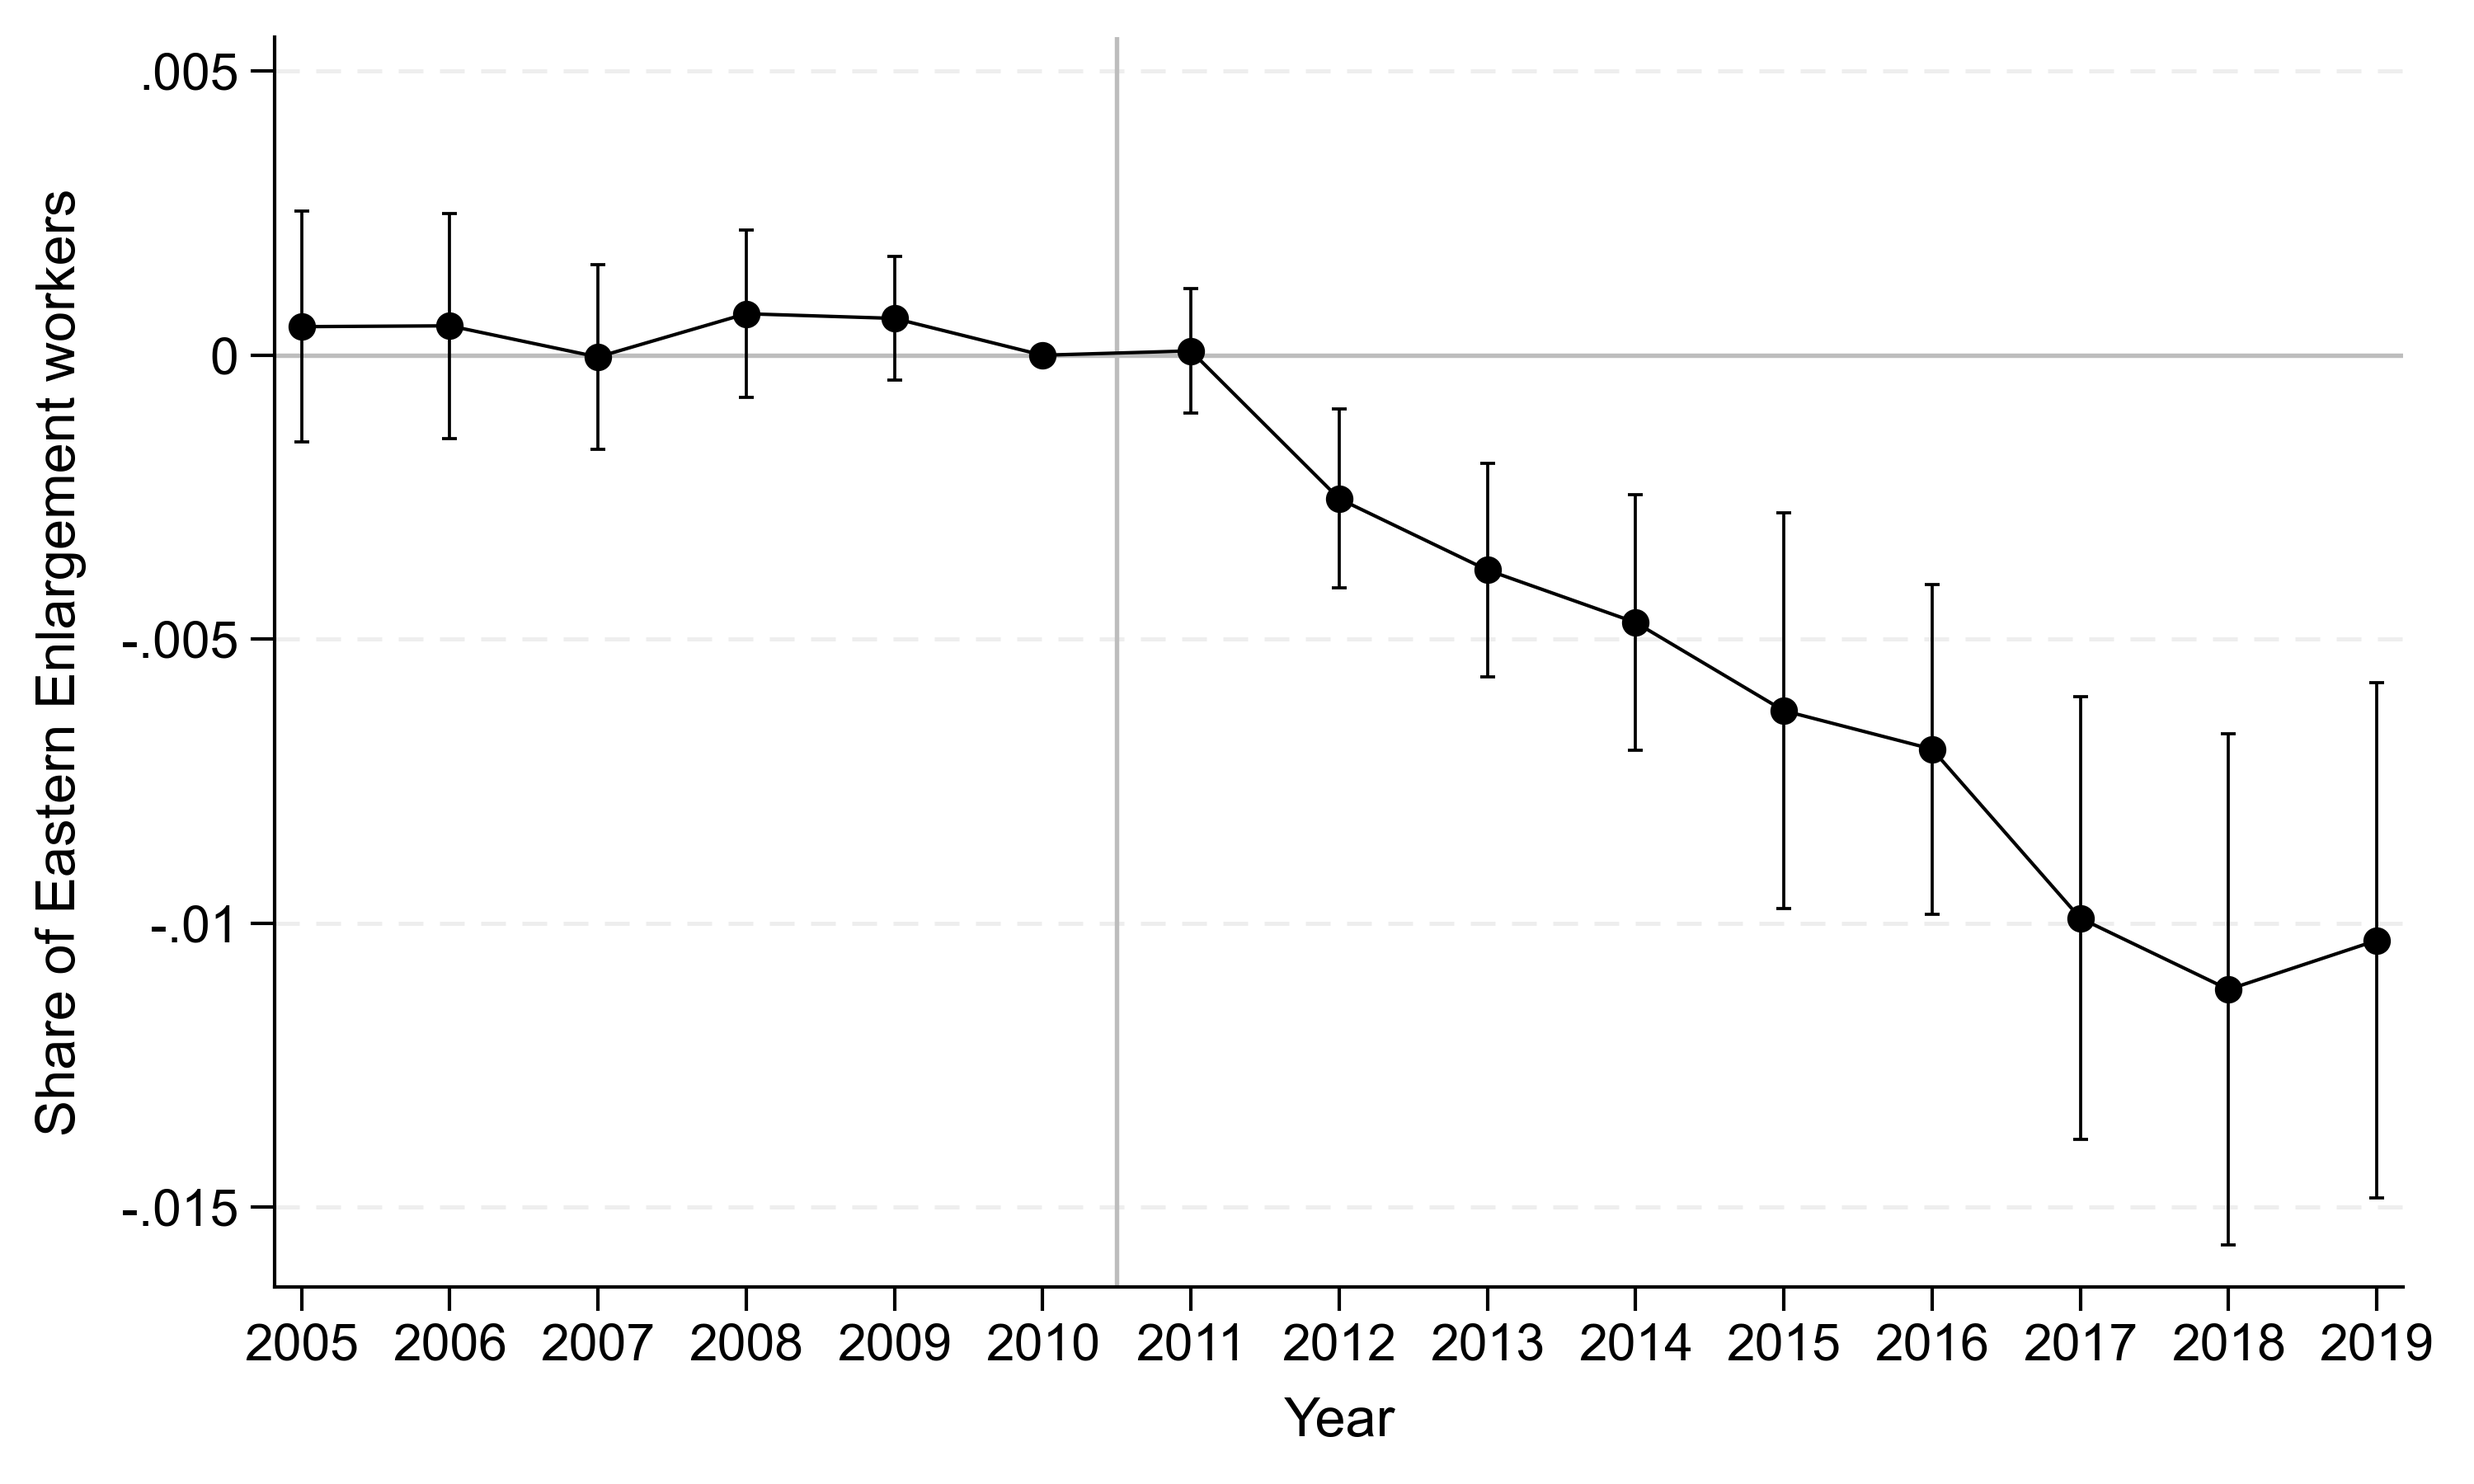
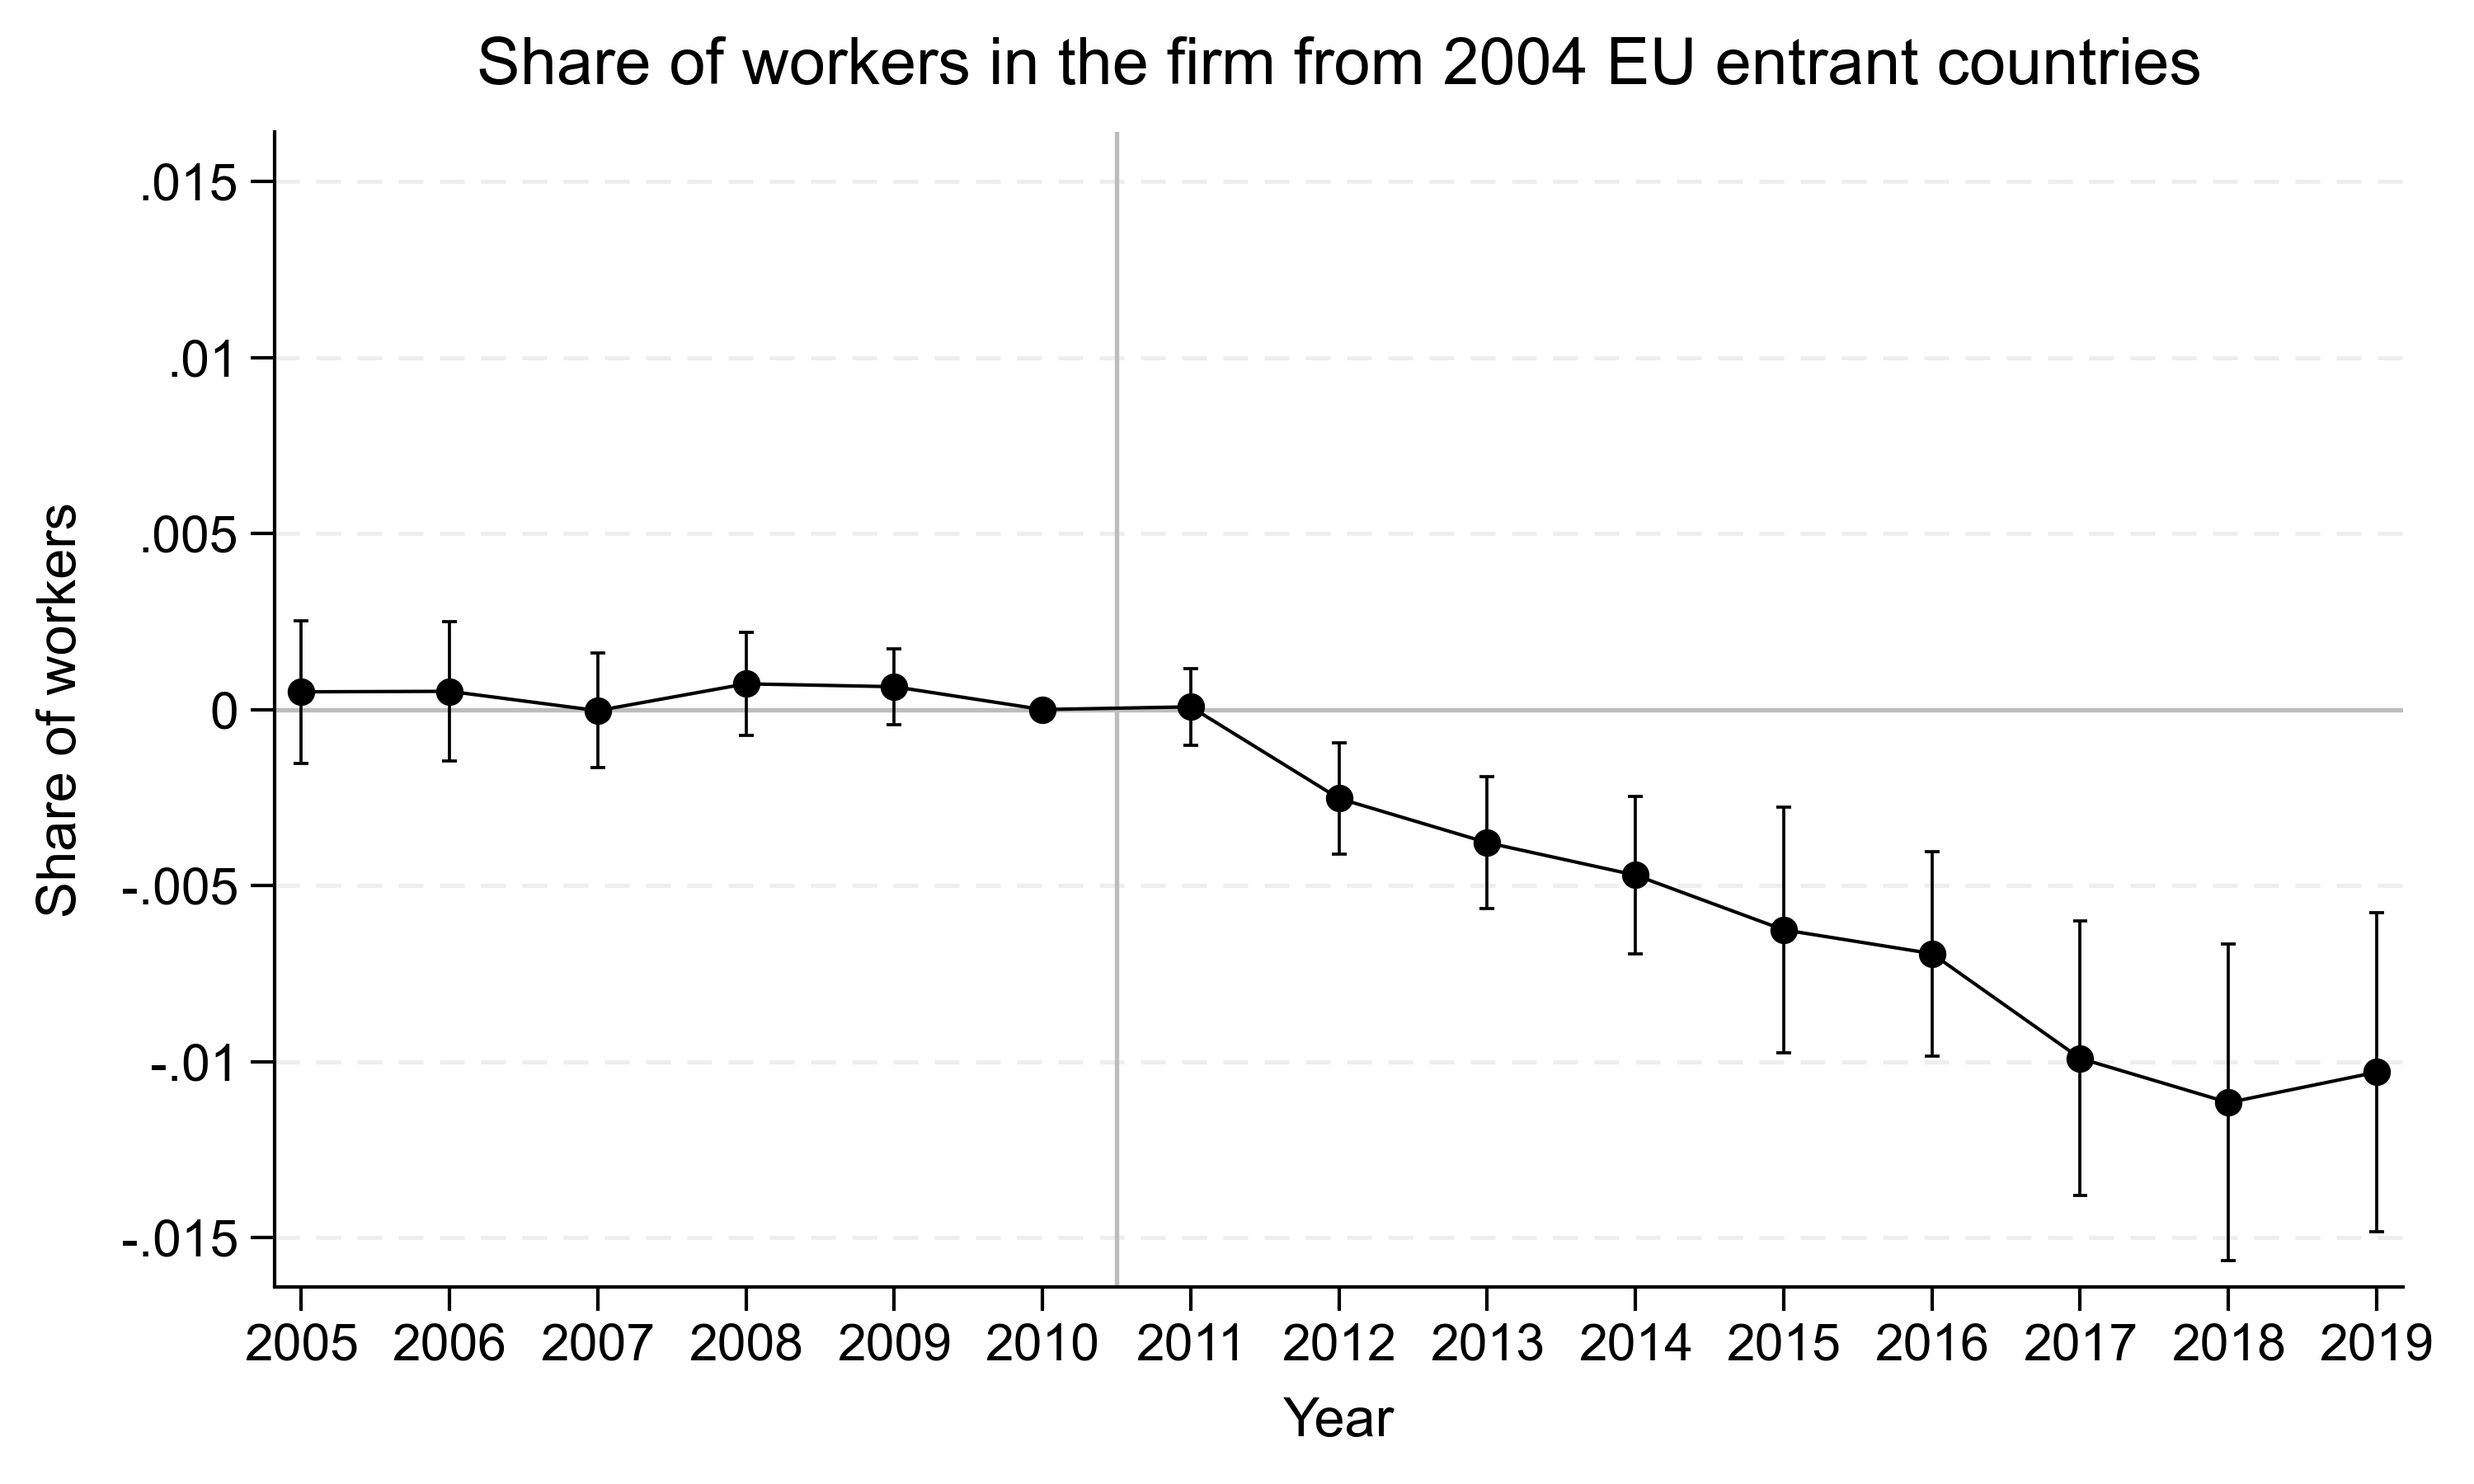
changes to abstract and caption

diff --git a/research.html b/research.html
@@ -34,10 +34,10 @@
                 <p class="paper-authors">with <a href="https://www.alexander-busch.eu/">Alexander Busch</a> and Sebastian Puerta</p>
                 <details class="paper-details">
                     <summary>Abstract and main result</summary>
-                    <p class="paper-abstract">We document the expanding geographic scope of labor unions in the US and show how the resulting organizational networks propagate shocks across distant labor markets. The number of states the average union local (union branch) operated in doubled from 1.5 in 2001 to 3 in 2011. As a consequence, shocks to unionized workers in one state are likely to have spillovers if unions respond by reallocating resources across states. We show this mechanism at work in the context of state-level Right-to-Work (RTW) laws, which make it optional to pay union dues. A model of a multistate union predicts spillovers with a sign that depends on the relative strength of forces similar to substitution and scale effects. We test for spillovers using the adoption of five RTW laws between 2012 and 2017. RTW laws have negative direct effects in adopting states and positive spillovers in non-adopting states; the average union represents 1.2 fewer bargaining units in adopting states and makes up for 35 percent of this loss in worker-level coverage by substituting towards non-adopting states. Notably, more than half of the spillover occurs in non-bordering states. We find no effect on the price or quality of union services. New organizing explains 34 percent of the spillover; the rest is explained by successful contract renegotiation for existing members. Despite the substitution, unions see a persistent decline in membership, revenues, and assets.</p>
+                    <p class="paper-abstract">We document the expanding geographic scope of labor unions in the US and show how the resulting organizational networks propagate shocks across distant labor markets. The number of states the average union local (union branch) operated in doubled from 1.5 in 2001 to 3 in 2011. As a consequence, shocks to unionized workers in one state are likely to have spillovers if unions respond by reallocating resources across states. We show this mechanism at work in the context of state-level Right-to-Work (RTW) laws, which make it optional to pay union dues. A model of a multistate union predicts spillovers with a sign that depends on the relative strength of substitution and scale effects. We test for spillovers using the adoption of five RTW laws between 2012 and 2017. RTW laws have negative direct effects in adopting states and positive spillovers in non-adopting states; the average union represents 1.2 fewer bargaining units in adopting states and makes up for 35 percent of this loss in worker-level coverage by substituting towards non-adopting states. Notably, more than half of the spillover occurs in non-bordering states. We find no effect on the price or quality of union services. New organizing explains 34 percent of the spillover; the rest is explained by successful contract renegotiation for existing members. Despite the substitution, unions see a persistent decline in membership, revenues, and assets.</p>
                     <figure class="paper-figure">
                         <a href="files/n_estb_change_never.png"><img src="files/n_estb_change_never.png" alt="Event-study plot of the number of bargaining units over event time. After Right-to-Work adoption, the count rises in non-adopting states and falls in adopting states."></a>
-                        <figcaption>Effect of Right-to-Work adoption on the number of bargaining units unions represent, in adopting states (grey) and non-adopting states (green).</figcaption>
+                        <figcaption>Spillover effects of Right-to-Work: Unions represent more bargaining units in non-switching states. Non-switching states are states that do not change their Right-to-Work status in the study period (2008-2019).</figcaption>
                     </figure>
                 </details>
             </div>

diff --git a/files/nj01_wc_ct_pres_03_eastern_enlargement_nc.py b/files/nj01_wc_ct_pres_03_eastern_enlargement_nc.py
@@ -32,8 +32,8 @@ RESULTS = {
     2019: (-0.0103010, -0.0148360, -0.0057661),
 }
 
-YTICKS = [0.005, 0, -0.005, -0.01, -0.015]
-YTICK_LABELS = [".005", "0", "-.005", "-.01", "-.015"]  # Stata number format
+YTICKS = [0.015, 0.01, 0.005, 0, -0.005, -0.01, -0.015]
+YTICK_LABELS = [".015", ".01", ".005", "0", "-.005", "-.01", "-.015"]  # Stata number format
 
 years = list(RESULTS)
 coefs = [RESULTS[y][0] for y in years]
@@ -58,13 +58,14 @@ for year, (_, low, high) in RESULTS.items():
 ax.plot(years, coefs, color="black", linewidth=1.0, marker="o", markersize=7, zorder=3)
 
 ax.set_xlim(2004.82, 2019.18)
-ax.set_ylim(-0.0164, 0.0056)
+ax.set_ylim(-0.0164, 0.0164)
 ax.set_xticks(years)
 ax.set_yticks(YTICKS)
 ax.set_yticklabels(YTICK_LABELS)
 ax.tick_params(labelsize=15, length=7, width=1.0)
 ax.set_xlabel("Year", fontsize=16, labelpad=8)
-ax.set_ylabel("Share of Eastern Enlargement workers", fontsize=16, labelpad=10)
+ax.set_ylabel("Share of workers", fontsize=16, labelpad=10)
+ax.set_title("Share of workers in the firm from 2004 EU entrant countries", fontsize=19, pad=14)
 
 for side in ("top", "right"):
     ax.spines[side].set_visible(False)
